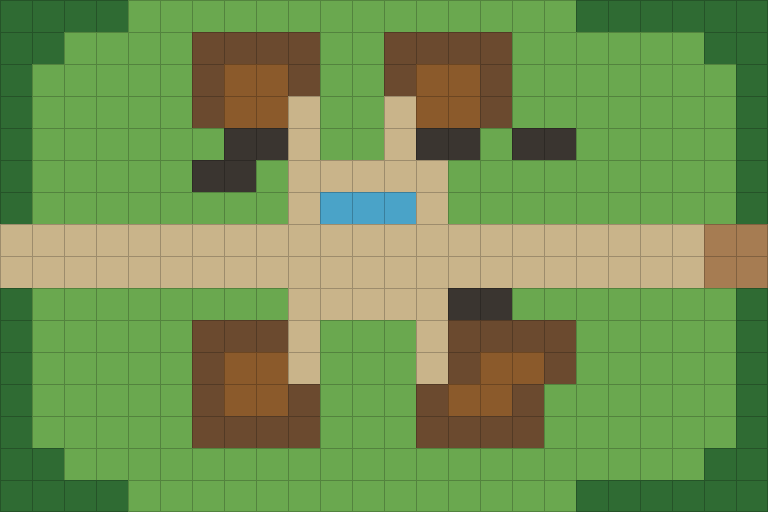
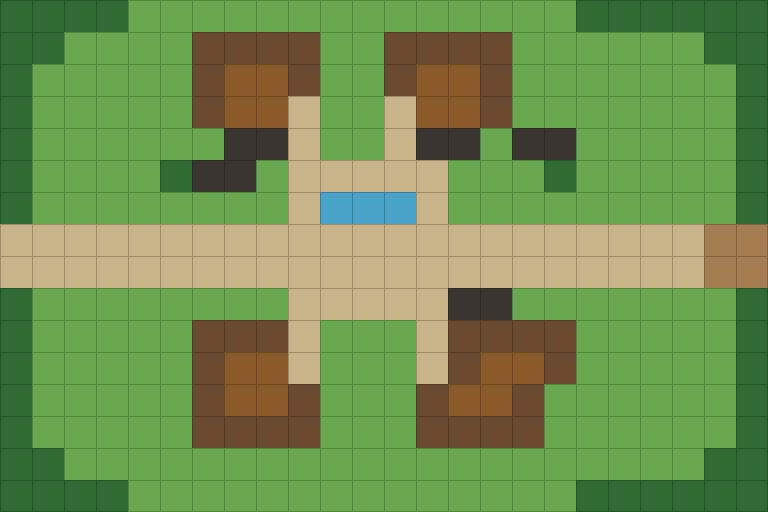
Frame the Ba Dan market court with two tree wings

Changed region(s): [[0.6875, 0.3125, 0.75, 0.375], [0.1875, 0.3125, 0.25, 0.375]]

diff --git a/e2e/tree-wings.review.ts b/e2e/tree-wings.review.ts
@@ -1,0 +1,112 @@
+/** Local composition review: real map taps after the standard seeded setup fixture. */
+import { execFileSync } from 'node:child_process';
+import { mkdirSync, writeFileSync } from 'node:fs';
+import { expect, test } from '@playwright/test';
+import type { Page } from '@playwright/test';
+import { enterNode, resetStorage, settleLayout, startGame, waitForIdle } from './helpers';
+
+async function zoom(page: Page, target: number): Promise<void> {
+  const current = await page.evaluate(() => window.fnt?.app.rendererCamera()?.tilePx);
+  const box = await page.locator('.map-canvas').boundingBox();
+  if (!current || !box) throw new Error('Missing visible camera');
+  await page.mouse.move(box.x + box.width / 2, box.y + box.height / 2);
+  await page.mouse.wheel(0, Math.log(current / target) / 0.002);
+  await expect
+    .poll(() => page.evaluate(() => window.fnt?.app.rendererCamera()?.tilePx))
+    .toBeCloseTo(target, 1);
+  await page.getByRole('button', { name: 'Follow party', exact: true }).click();
+  await settleLayout(page);
+}
+
+async function walk(page: Page, x: number, y: number): Promise<void> {
+  await waitForIdle(page);
+  const point = await page.evaluate(
+    ({ x, y }) => {
+      const m = window.fnt!.app.rendererCamera()!.groundTransform;
+      return {
+        x: m.a * (x + 0.5) * 64 + m.c * (y + 0.5) * 64 + m.tx,
+        y: m.b * (x + 0.5) * 64 + m.d * (y + 0.5) * 64 + m.ty,
+      };
+    },
+    { x, y },
+  );
+  const canvas = page.locator('.map-canvas');
+  await canvas.click({ position: point });
+  await expect
+    .poll(() => page.evaluate(() => window.fnt!.app.state!.location.pos))
+    .toEqual({ x, y });
+  await waitForIdle(page);
+  await page.getByRole('button', { name: 'Follow party', exact: true }).click();
+  await settleLayout(page);
+}
+
+for (const renderer of ['canvas', 'webgl'] as const) {
+  test(`${renderer} market court tree wings`, async ({ page }) => {
+    test.setTimeout(180_000);
+    const revision = execFileSync('git', ['rev-parse', '--short=7', 'HEAD'], {
+      encoding: 'utf8',
+    }).trim();
+    const folder = `${process.env.FNT_TREE_REVIEW_DIR ?? '.shots/tree-wings'}/${renderer}`;
+    mkdirSync(folder, { recursive: true });
+    const errors: string[] = [];
+    page.on('pageerror', (e) => errors.push(e.message));
+    await resetStorage(page, `?renderer=${renderer}`);
+    const build = page.locator('[aria-label^="Game version"]');
+    await expect(build).toHaveText(new RegExp(`build ${revision}$`));
+    const stamp = await build.innerText();
+    await page.screenshot({ path: `${folder}/source-build.png` });
+    await startGame(
+      page,
+      ['Nima', 'Kaya', 'Sura', 'Bo', 'Wen'],
+      ['nima', 'kaya', 'sura', 'bo', 'wen'],
+      'tree-wings-review',
+      { reduceMotion: false },
+    );
+    await enterNode(page, 'village_explore');
+    await waitForIdle(page);
+    await settleLayout(page);
+    expect(await page.evaluate(() => window.fnt!.app.rendererBackend())).toBe(renderer);
+    await zoom(page, 64);
+    const views = [];
+    for (const [name, x, y] of [
+      ['approach', 10, 7],
+      ['court', 10, 4],
+      ['west-door', 9, 3],
+      ['north-door', 11, 3],
+      ['east-garden', 16, 5],
+      ['return', 10, 7],
+    ] as const) {
+      await walk(page, x, y);
+      for (const size of name === 'court' || name === 'east-garden' ? [64, 96] : [64]) {
+        await zoom(page, size);
+        await page.screenshot({ path: `${folder}/${name}-${size}.png` });
+        views.push({
+          name,
+          size,
+          camera: await page.evaluate(() => window.fnt!.app.rendererCamera()),
+        });
+      }
+      await zoom(page, 64);
+    }
+    expect(errors).toEqual([]);
+    writeFileSync(
+      `${folder}/provenance.json`,
+      JSON.stringify(
+        {
+          revision,
+          stamp,
+          renderer,
+          seed: 'tree-wings-review',
+          reduced: false,
+          setup:
+            'Standard newGame/enterNode fixture, then normal map clicks, wheel and Follow party.',
+          diff: execFileSync('git', ['diff', '--stat'], { encoding: 'utf8' }),
+          views,
+          errors,
+        },
+        null,
+        2,
+      ),
+    );
+  });
+}

diff --git a/src/content/scenes/baDan.test.ts b/src/content/scenes/baDan.test.ts
@@ -1,6 +1,6 @@
 import { expect, it } from 'vitest';
 import { BA_DAN_VILLAGE } from '../maps/village';
-import { BA_DAN_POND, BA_DAN_COURTYARD_FOOTPRINTS } from './baDan';
+import { BA_DAN_POND, BA_DAN_COURTYARD_FOOTPRINTS, BA_DAN_COURT_TREES } from './baDan';
 import { buildGrid, reachable, posKey, tileAt } from '../../core/rules/grid';
 
 it('keeps painted low boundaries solid while preserving every village destination', () => {
@@ -32,4 +32,35 @@ it('registers the painted pond to every actual permanent-water cell', () => {
     ),
   );
   expect(painted).toEqual(actual);
+});
+
+it('keeps court trunks solid and both shop doors and village routes reachable', () => {
+  const map = BA_DAN_VILLAGE;
+  const grid = buildGrid(map);
+  const start = map.partySpawns[0];
+  if (!start) throw new Error('Village has no spawn');
+  const paths = reachable({ grid, blocked: new Set(), surfaces: new Map(), size: 1 }, start, 1000);
+  for (const pos of BA_DAN_COURT_TREES) {
+    expect(tileAt(grid, pos)?.blocked).toBe(true);
+    expect(paths.has(posKey(pos))).toBe(false);
+    expect(map.scene?.scenery.find((s) => s.id === `tree-${pos.x}-${pos.y}`)).toMatchObject({
+      footprint: [pos],
+      depth: pos,
+      width: 320,
+      fadeWhenOccluding: true,
+    });
+  }
+  for (const pos of [
+    ...map.npcs.map((npc) => npc.pos),
+    { x: 9, y: 3 },
+    { x: 11, y: 3 },
+    { x: 23, y: 7 },
+    { x: 19, y: 14 },
+    { x: 5, y: 6 },
+    { x: 17, y: 6 },
+  ])
+    expect(paths.has(posKey(pos)), `Unreachable court destination ${posKey(pos)}`).toBe(true);
+  for (const y of [7, 8]) {
+    for (let x = 0; x < map.width; x++) expect(tileAt(grid, { x, y })?.blocked).not.toBe(true);
+  }
 });

diff --git a/src/content/scenes/baDan.ts b/src/content/scenes/baDan.ts
@@ -5,6 +5,12 @@ export const BA_DAN_POND = { x: 10, y: 6, width: 3, height: 1 } as const;
 /** Flat grass fringe across the northern lawn bay; both door approaches stay clear. */
 export const BA_DAN_NORTH_FRINGE = { x: 10.05, y: 3.9, width: 1.9, depth: 0.2 } as const;
 
+/** Two canopy wings frame the market court; only their trunks block walking. */
+export const BA_DAN_COURT_TREES = [
+  { x: 5, y: 5 },
+  { x: 17, y: 5 },
+] as const;
+
 /** Gameplay applies these same footprints as low, solid courtyard boundaries. */
 export const BA_DAN_COURTYARD_PROPS = [
   { id: 'west-planter', image: 'low-planter', x: 6, y: 5 },
@@ -113,6 +119,7 @@ export const BA_DAN_SCENE: MapScene = {
     house('southeast-house', 13, 10, 4, 4),
     // Equal-depth frontage must paint after the building behind it.
     ...BA_DAN_COURTYARD_PROPS.map(courtyardProp),
+    ...BA_DAN_COURT_TREES.map(({ x, y }) => tree(x, y, 320)),
     tree(0, 3),
     tree(0, 6, 400),
     tree(0, 10, 420),

diff --git a/src/content/maps/village.ts b/src/content/maps/village.ts
@@ -11,7 +11,7 @@
 
 import type { MapDef } from '../../core/types';
 import { LEGEND } from './legend';
-import { BA_DAN_SCENE, BA_DAN_COURTYARD_FOOTPRINTS } from '../scenes/baDan';
+import { BA_DAN_SCENE, BA_DAN_COURTYARD_FOOTPRINTS, BA_DAN_COURT_TREES } from '../scenes/baDan';
 
 export const BA_DAN_VILLAGE: MapDef = {
   id: 'ba_dan_village',
@@ -44,7 +44,11 @@ export const BA_DAN_VILLAGE: MapDef = {
   ].map((row, y) =>
     [...row]
       .map((tile, x) =>
-        BA_DAN_COURTYARD_FOOTPRINTS.some((p) => p.x === x && p.y === y) ? 'l' : tile,
+        BA_DAN_COURT_TREES.some((p) => p.x === x && p.y === y)
+          ? 'T'
+          : BA_DAN_COURTYARD_FOOTPRINTS.some((p) => p.x === x && p.y === y)
+            ? 'l'
+            : tile,
       )
       .join(''),
   ),

diff --git a/playwright.tree-wings.config.ts b/playwright.tree-wings.config.ts
@@ -1,0 +1,21 @@
+import { defineConfig } from '@playwright/test';
+
+export default defineConfig({
+  testDir: './e2e',
+  testMatch: 'tree-wings.review.ts',
+  workers: 1,
+  retries: 0,
+  reporter: [['list']],
+  use: {
+    baseURL: 'http://127.0.0.1:4241',
+    viewport: { width: 1672, height: 944 },
+    serviceWorkers: 'block',
+    launchOptions: { channel: 'msedge' },
+  },
+  webServer: {
+    command: 'npm run dev -- --host 127.0.0.1 --port 4241 --strictPort',
+    url: 'http://127.0.0.1:4241',
+    reuseExistingServer: false,
+    timeout: 60_000,
+  },
+});

diff --git a/docs/art/prompts/maps/ba_dan_village.md b/docs/art/prompts/maps/ba_dan_village.md
@@ -20,11 +20,11 @@ Ba Dan, the small village the party sets out from: a clearing in the woods.
 
 - Road (64 tiles): 64 tiles (the centre), rows 3–4: columns 9 and 12; rows 5 and 9: columns 9–13; rows 6 and 10–11: columns 9 and 13; rows 7–8: columns 0–21.
 - Still water (3 tiles): a 3×1 block at columns 10–12, row 6 (the centre).
-- Trees (48 tiles): 13 tiles (top right), row 0: columns 18–23; row 1: columns 22–23; rows 2–6: column 23; 13 tiles (bottom right), rows 9–13: column 23; row 14: columns 22–23; row 15: columns 18–23; 11 tiles (top left), row 0: columns 0–3; row 1: columns 0–1; rows 2–6: column 0; 11 tiles (bottom left), rows 9–13: column 0; row 14: columns 0–1; row 15: columns 0–3.
+- Trees (50 tiles): 13 tiles (top right), row 0: columns 18–23; row 1: columns 22–23; rows 2–6: column 23; 13 tiles (bottom right), rows 9–13: column 23; row 14: columns 22–23; row 15: columns 18–23; 11 tiles (top left), row 0: columns 0–3; row 1: columns 0–1; rows 2–6: column 0; 11 tiles (bottom left), rows 9–13: column 0; row 14: columns 0–1; row 15: columns 0–3; one tile at column 5, row 5 (middle left); one tile at column 17, row 5 (middle right).
 - Timber walls (36 tiles): 10 tiles (bottom centre), row 10: columns 6–8; row 11: column 6; row 12: columns 6 and 9; row 13: columns 6–9; 7 tiles (top centre), row 1: columns 6–9; row 2: columns 6 and 9; row 3: column 6; 7 tiles (top centre), row 1: columns 12–15; row 2: columns 12 and 15; row 3: column 15; 6 tiles (bottom centre), row 10: columns 14–17; row 11: columns 14 and 17; 6 tiles (bottom centre), row 12: columns 13 and 16; row 13: columns 13–16.
 - Stone walls (10 tiles): 4 tiles (top left), row 4: columns 7–8; row 5: columns 6–7; a 2×1 block at columns 13–14, row 4 (top centre); a 2×1 block at columns 16–17, row 4 (top right); a 2×1 block at columns 14–15, row 9 (the centre).
 - Plank floors (16 tiles): a 2×2 block at columns 7–8, rows 2–3 (top centre); a 2×2 block at columns 13–14, rows 2–3 (top centre); a 2×2 block at columns 7–8, rows 11–12 (bottom centre); 4 tiles (bottom centre), row 11: columns 15–16; row 12: columns 14–15.
-- Open ground everywhere else: grass (203 tiles), bare earth (4 tiles).
+- Open ground everywhere else: grass (201 tiles), bare earth (4 tiles).
 - The party enters from the left, standing at (3, 7); enemies come from the right. The exit is at (23, 7). Paint nothing there that would read as an object to walk round.
 
 The rows as the rules read them:
@@ -35,7 +35,7 @@ TT,,,,BBBB,,BBBB,,,,,,TT
 T,,,,,BwwB,,BwwB,,,,,,,T
 T,,,,,Bww=,,=wwB,,,,,,,T
 T,,,,,,ll=,,=ll,ll,,,,,T
-T,,,,,ll,=====,,,,,,,,,T
+T,,,,Tll,=====,,,T,,,,,T
 T,,,,,,,,=~~~=,,,,,,,,,T
 ======================..
 ======================..
